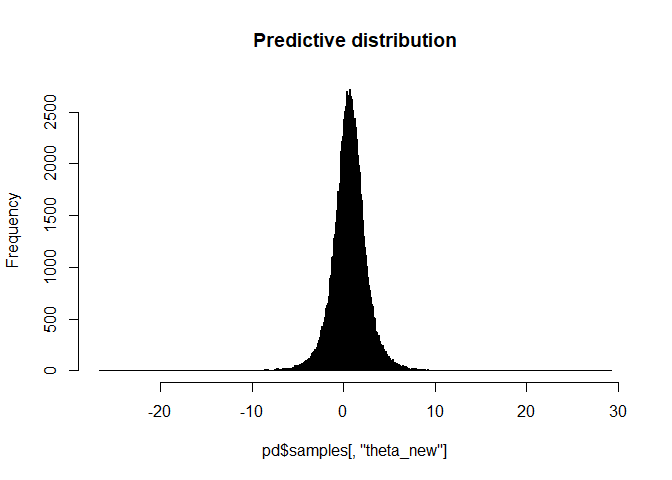
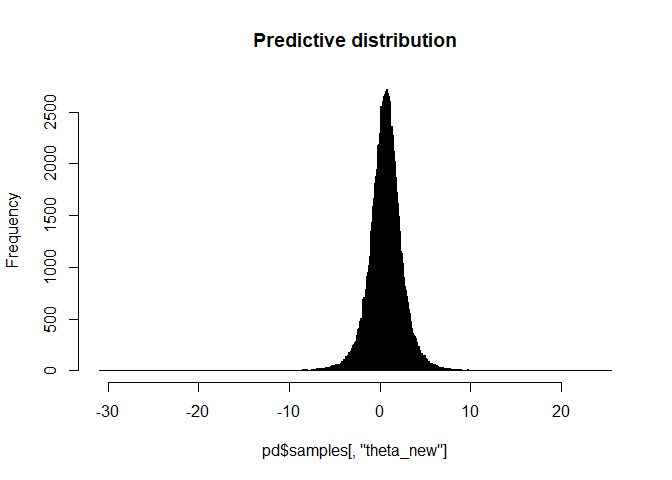
build

diff --git a/README.md b/README.md
@@ -1,6 +1,6 @@
 
 <!-- README.md is generated from README.Rmd. Please edit that file -->
-<!-- needs to be rendered to MD using devtools::build_readme() -->
+<!-- README.Rmd needs to be rendered to MD with devtools::build_readme() -->
 
 # metaprediction
 
@@ -34,7 +34,7 @@ pd <- PredDist(es = es, se = se, method = "FullCD")
 # 95% prediction interval
 pd$PI
 #>      2.5%     97.5% 
-#> -3.284152  4.549387
+#> -3.307166  4.472290
 # Predictive distribution
 hist(pd$samples[,"theta_new"], breaks = 500, main = "Predictive distribution")
 ```
@@ -44,5 +44,5 @@ hist(pd$samples[,"theta_new"], breaks = 500, main = "Predictive distribution")
 ``` r
 # Probability of a future effect larger than 0
 mean(pd$samples[,"theta_new"] > 0)
-#> [1] 0.66484
+#> [1] 0.66279
 ```
